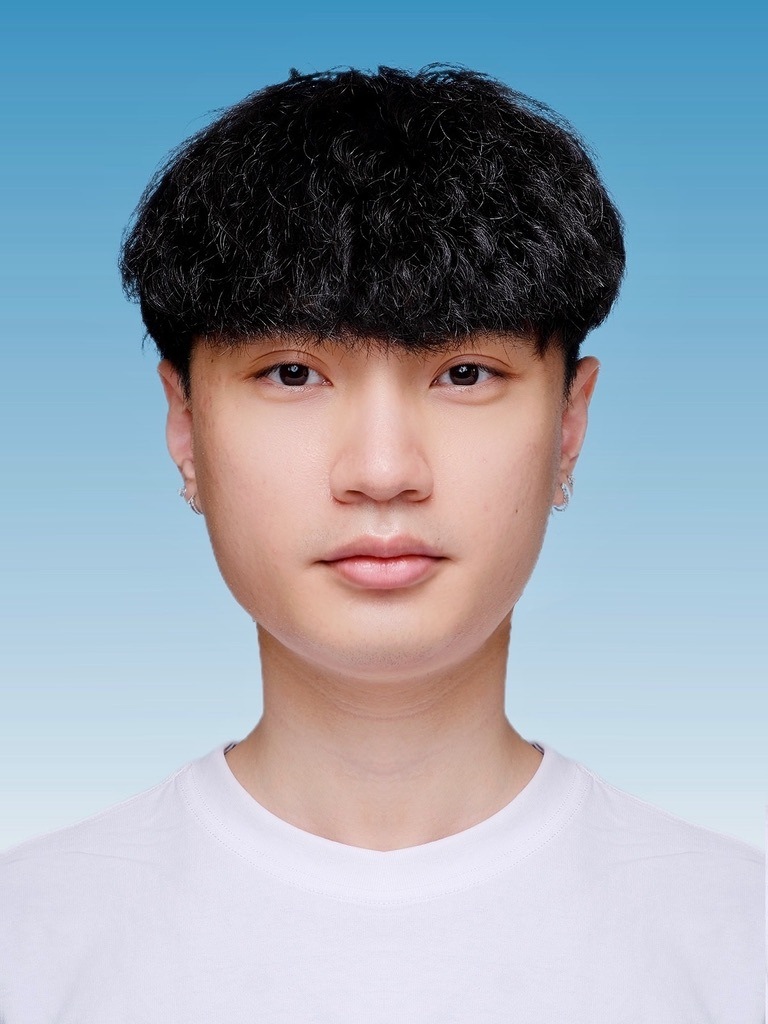
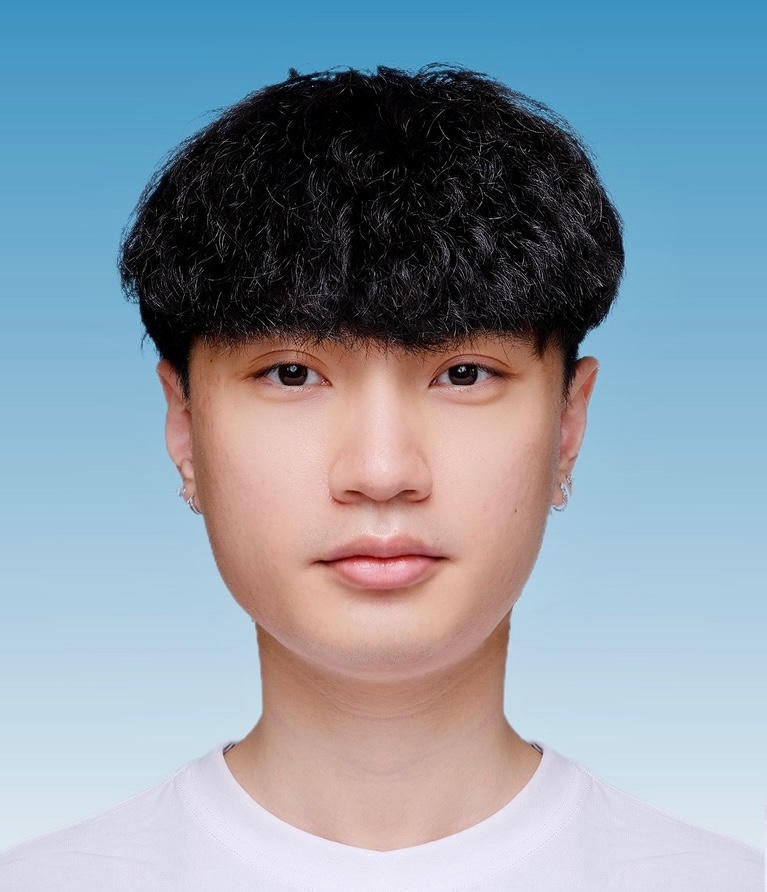
update: team member picture

diff --git a/front-end/src/Components/Team/TeamPage.jsx b/front-end/src/Components/Team/TeamPage.jsx
@@ -93,7 +93,7 @@ const TeamPage = () => {
                 <img
                   src={member3} // Replace with your image URL
                   alt="Circular"
-                  style={{ borderRadius: '50%' }}
+                  style={{ borderRadius: '50%', objectFit: "cover"}}
                   className="w-48 h-56"
                 />
               </div>
